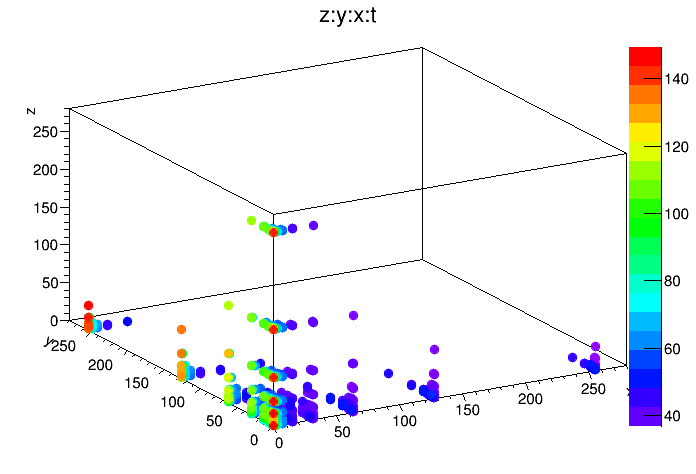
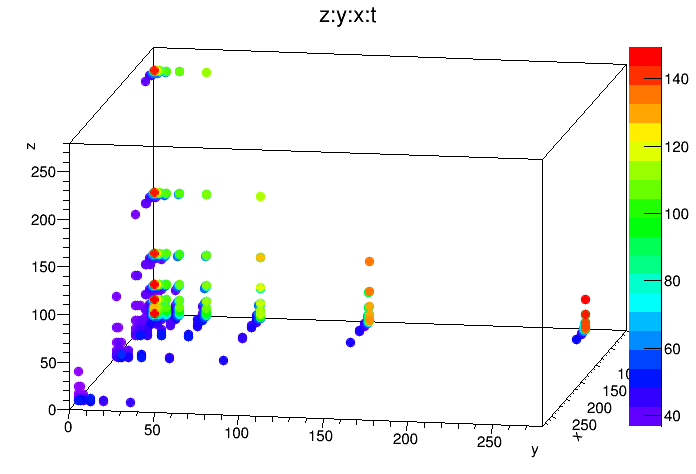
updating 3d graphs

diff --git a/mockup/analysis/localSizeLoop.py b/mockup/analysis/localSizeLoop.py
@@ -8,7 +8,7 @@ FileNames=[]
 #find files that end with .log and add them into FileNames array
 for root, dirs, files in os.walk("."):
 	for file in files:
-		if file.endswith(".log"):
+		if file.endswith("verage.log"):
 			print os.path.join(root, file)
 			FileNames.append(os.path.join(root, file))
 
@@ -199,9 +199,9 @@ def plot_THREE_D(f,tree):
 		MeanRMS[thr][0]=h.GetMean()
 		MeanRMS[thr][1]=h.GetRMS()
 		
-		Hists[thr]= h
+		Hists[thr]= h 
 		
-		print "(" + str(thr[0]) + "," + str(thr[1]) + "," + str(thr[2])+ ")" + "=" + str(h.GetMean())
+		#print "(" + str(thr[0]) + "," + str(thr[1]) + "," + str(thr[2])+ ")" + "=" + str(h.GetMean())
 		x[i]= thr[0]
 		y[i]= thr[1]
 		z[i]= thr[2]
@@ -214,7 +214,9 @@ def plot_THREE_D(f,tree):
 	ntuple.SetMarkerStyle(20)
 	ntuple.Draw("z:y:x:t","","L&&colz",len(threads),0)
 	title = ""+tree.kernel[:-1]+tree.device[:-1]
-	ntuple.SetTitle(title)
+	Canvases[f].SetPhi(260)
+	Canvases[f].SetTheta(20)
+	
 	pic = "./results/" + tree.device[:-1] + "-" + tree.kernel[:-1]
 	Canvases[f].Print(pic+".png")
 	
